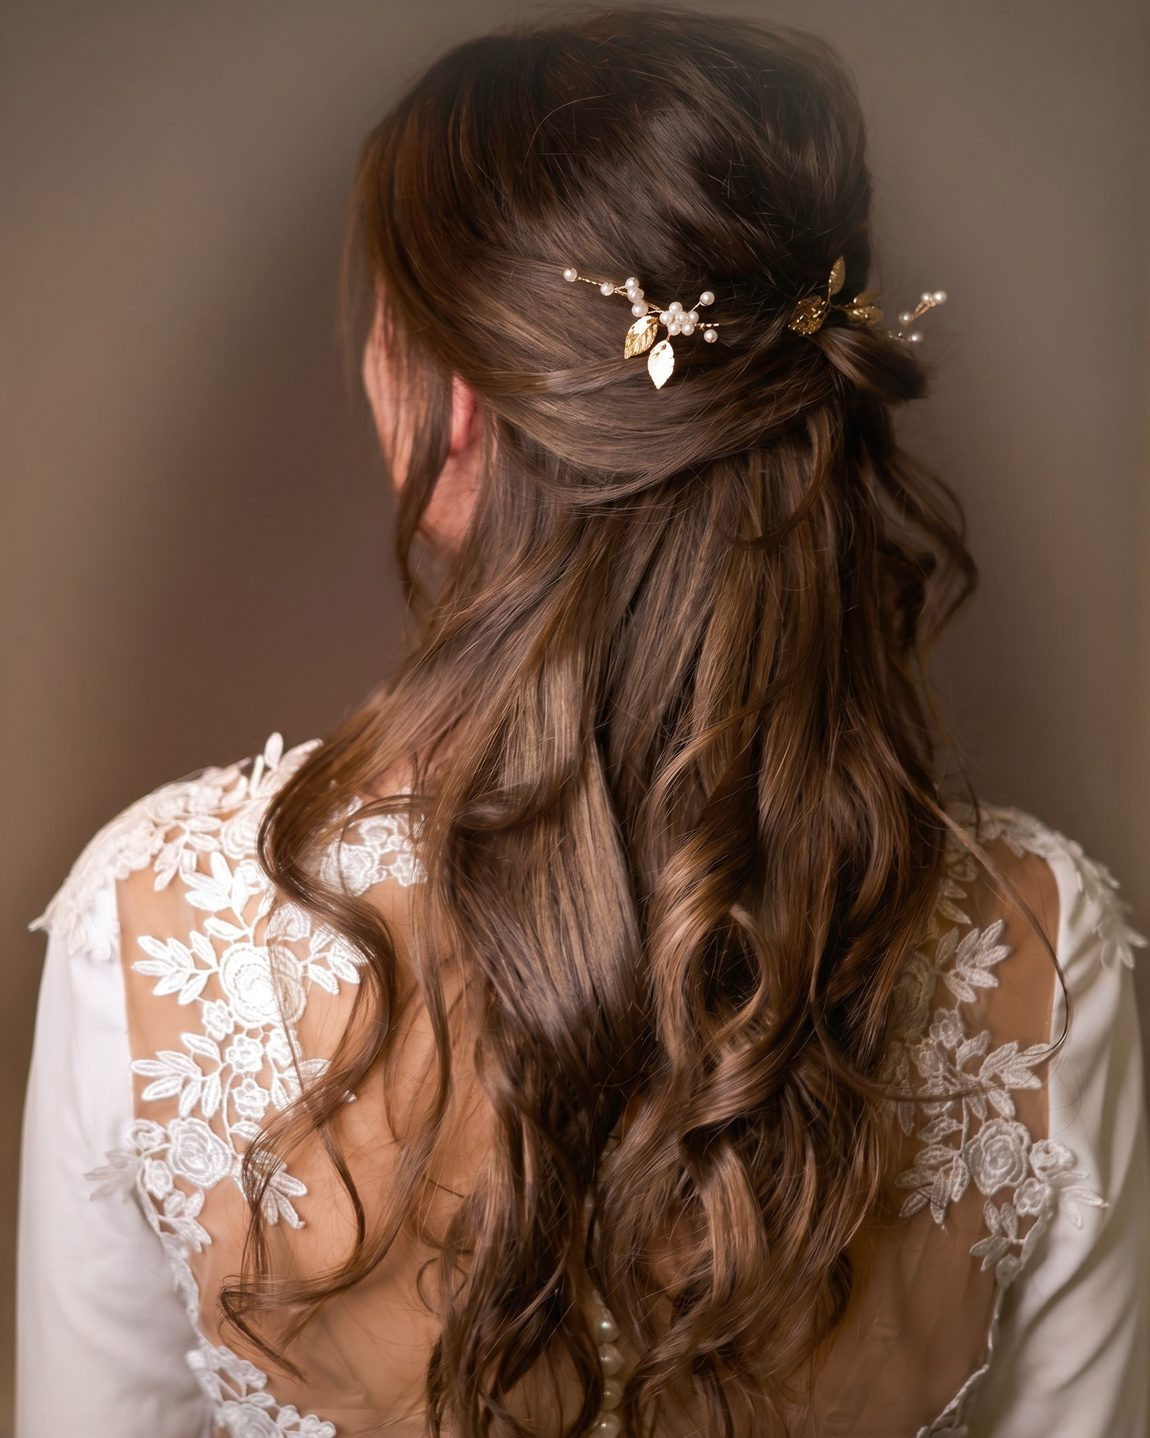
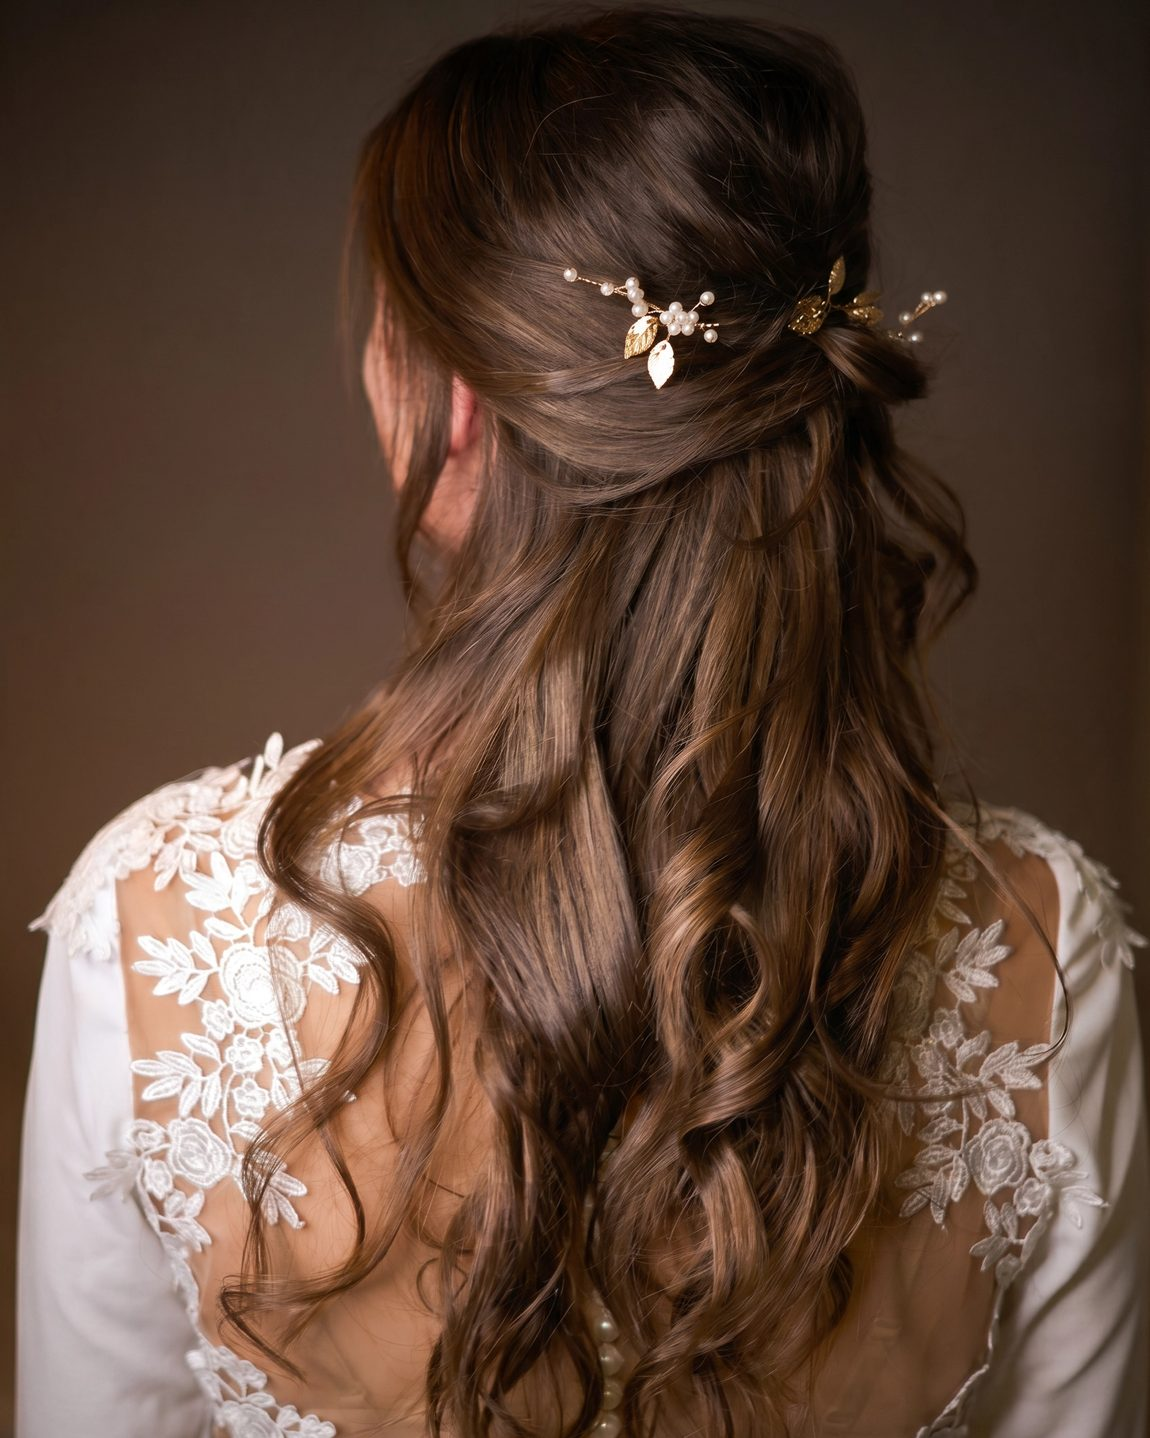
Leave Luna's hair photos untouched and drop the two weak frames
The background lift was bleeding onto the hair: smooth dark hair reads
as backdrop to the mask, so the crown picked up a pale haze. These
frames now get the crop and nothing else.

Also removes the canal and veil shots. In both, the source itself cuts
the crown - no crop can recover what was never photographed - and the
set is about showing a complete hairstyle.

Changed region(s): [[0.0, 0.0, 1.0, 1.0]]

diff --git a/index.html b/index.html
@@ -423,10 +423,10 @@
         <span class="braut-fuss"><span class="braut-name">Fernanda</span><span class="braut-zahl">5</span></span>
       </button>
       <button type="button" class="braut" data-satz="luna-haare" data-name="Luna"
-              data-fotos="01.jpg,02.jpg,03.jpg" aria-label="Open Luna's photos">
+              data-fotos="01.jpg" aria-label="Open Luna's photos">
         <img src="media/portfolio/luna-haare/titel.jpg"
              alt="Bridal hair from behind — bridal makeup by Anja Zander, Amsterdam" loading="lazy" />
-        <span class="braut-fuss"><span class="braut-name">Luna</span><span class="braut-zahl">4</span></span>
+        <span class="braut-fuss"><span class="braut-name">Luna</span><span class="braut-zahl">2</span></span>
       </button>
       <button type="button" class="braut" data-satz="luna-gesicht" data-name="Luna"
               data-fotos="01.jpg,02.jpg" aria-label="Open Luna's photos">
